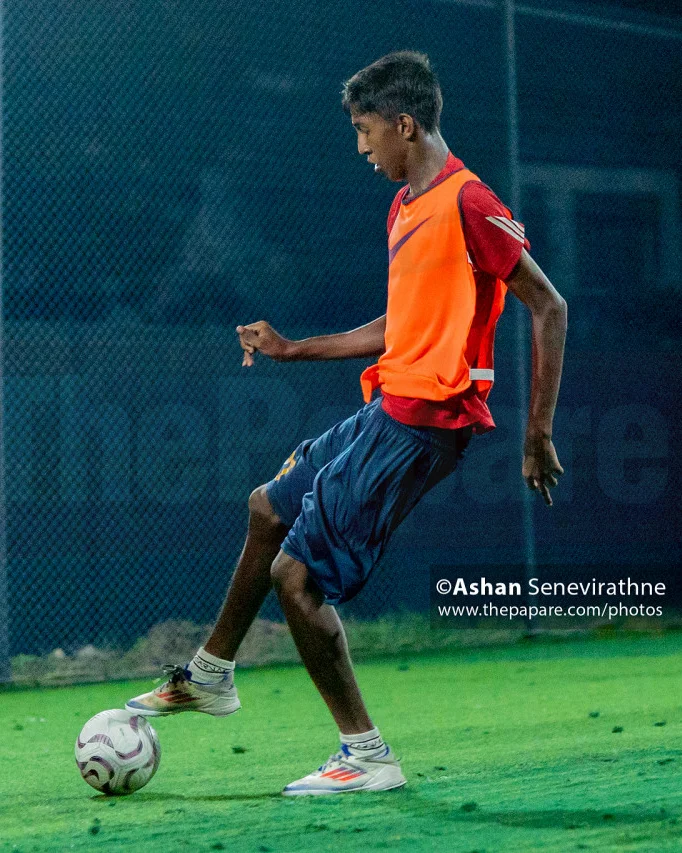
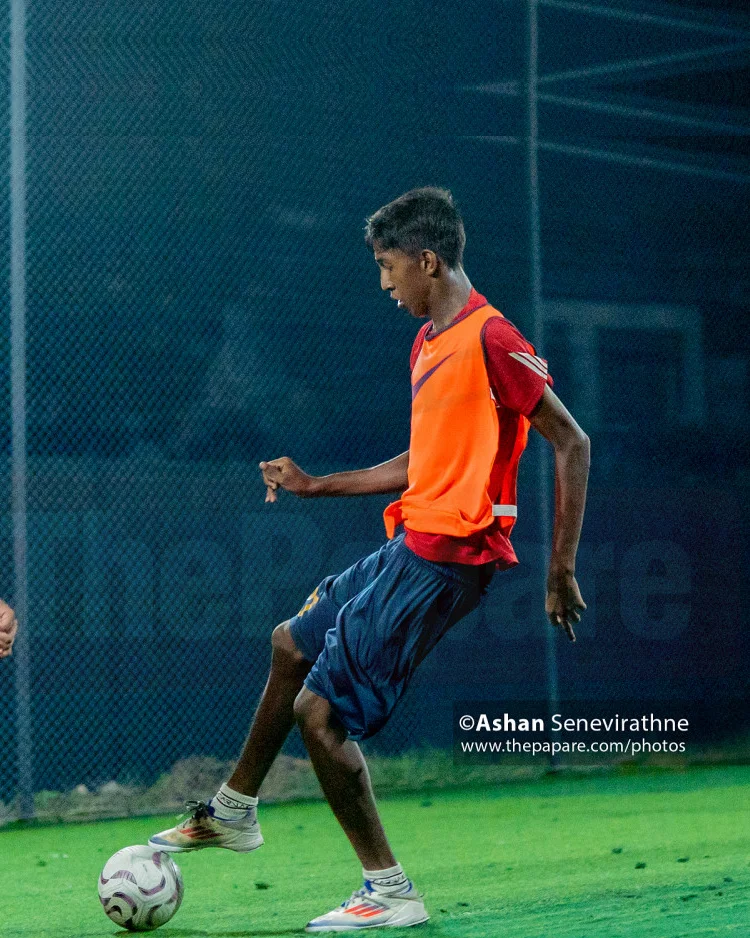
Bring back the Who We Are fade layout and line up the SZN 5 card
Claude-Session: https://claude.ai/code/session_01AhTmBcHDK97aHY28exLAWF

diff --git a/components/acts/WhoWeAre.tsx b/components/acts/WhoWeAre.tsx
@@ -7,11 +7,11 @@ import { SplitReveal } from "@/components/primitives/SplitReveal";
 
    Copy is the owner's, from the 4x4 Series proposal deck (2026-09-10), cut
    down; the Moment act already says "Talent was never missing", so it is not
-   repeated here. Still: the owner's wider edit of "Nighttime Futsal Showdown"
-   (2026-10-29), full bleed, no blur or fade; the Frontier badge is patched with
-   turf from the same rows. On a very wide window the frame trims a little hair
-   and the bottom of the ball. */
-const STILL = { src: "/home/who-we-are-night.webp", w: 1535, h: 845 };
+   repeated here. Still: "Nighttime Futsal Showdown" (owner, 2026-10-29), badges
+   cropped off. From md the whole photo sits right at full height and its own
+   shape, so both players and the ball stay whole, and its left edge fades into
+   the night under the headline (owner chose this fade back, 2026-10-29). */
+const STILL = { src: "/home/who-we-are-night.webp", w: 1336, h: 935 };
 
 export function WhoWeAre() {
   return (
@@ -23,7 +23,7 @@ export function WhoWeAre() {
         <img
           src={STILL.src}
           srcSet={phoneSrcSet(STILL.src)}
-          sizes="(max-width: 767px) 150svh, 100vw"
+          sizes="(max-width: 767px) 150svh, 90vw"
           alt="Two players battle for the ball under the floodlights at night"
           width={STILL.w}
           height={STILL.h}
@@ -31,7 +31,7 @@ export function WhoWeAre() {
           decoding="async"
           referrerPolicy="no-referrer"
           style={{ "--wipe-delay": "140ms" } as React.CSSProperties}
-          className="wipe__layer absolute inset-0 h-full w-full object-cover object-[69%_center] md:object-[30%_74%]"
+          className="wipe__layer absolute inset-0 h-full w-full object-cover object-[57%_center] md:left-auto md:w-auto md:max-w-none md:[mask-image:linear-gradient(to_right,transparent,#000_30%)]"
         />
         <span aria-hidden="true" className="absolute inset-0 bg-gradient-to-b from-night/90 via-night/45 to-night/10 md:from-night/45 md:via-night/10 md:to-transparent" />
         {/* Text starts about a third down, level with the pitch (owner,

diff --git a/lib/highlights.ts b/lib/highlights.ts
@@ -480,8 +480,8 @@ const ownerCovers: Record<string, { src: string; alt: string }> = {
   "szn-3": { src: "/pages/gallery-szn-3.webp", alt: "A player in black runs onto the ball under the floodlights at 4 x 4 Series SZN 3" },
   // Owner, 2026-10-29: DSC_2022, full height so the ball and keeper stay whole.
   "szn-4": { src: "/pages/gallery-szn-4.webp", alt: "A player in red shoots at the goalkeeper at 4 x 4 Series SZN 4" },
-  // Owner, 2026-10-29: ThePapare frame (2fccf70b), full height on the player with
-  // the ball; credit watermark stays in.
+  // Owner, 2026-10-29: ThePapare frame (2fccf70b). The top 136px repeats the
+  // photo's own fence rows (no blur) so the head lines up with SZN 4 and 6.
   "szn-5": { src: "/pages/gallery-szn-5.webp", alt: "A player in an orange bib controls the ball at 4 x 4 Series SZN 5; photograph by Ashan Senevirathne for ThePapare" },
   // Owner, 2026-10-29: DSC_8533, zoomed on the keeper and the ball.
   "szn-6": { src: "/pages/gallery-szn-6.webp", alt: "The goalkeeper winds up to kick the ball at 4 x 4 Series SZN 6" },
